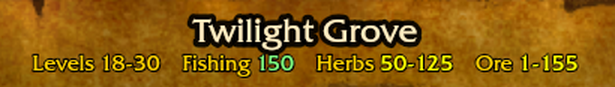
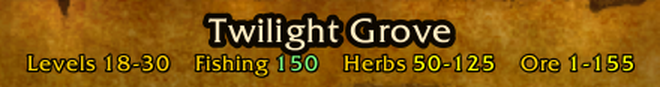
Listing pictures re-rendered; new summary and opening line

diff --git a/README.md b/README.md
@@ -1,7 +1,6 @@
 # Meio Map
 
-Hover a zone on the world map to see its level range and the fishing, herb and ore skill it
-needs.
+Hover a zone on the world map: its level range and the fishing, herb and ore skill it needs.
 
 For WoW Forever.
 
